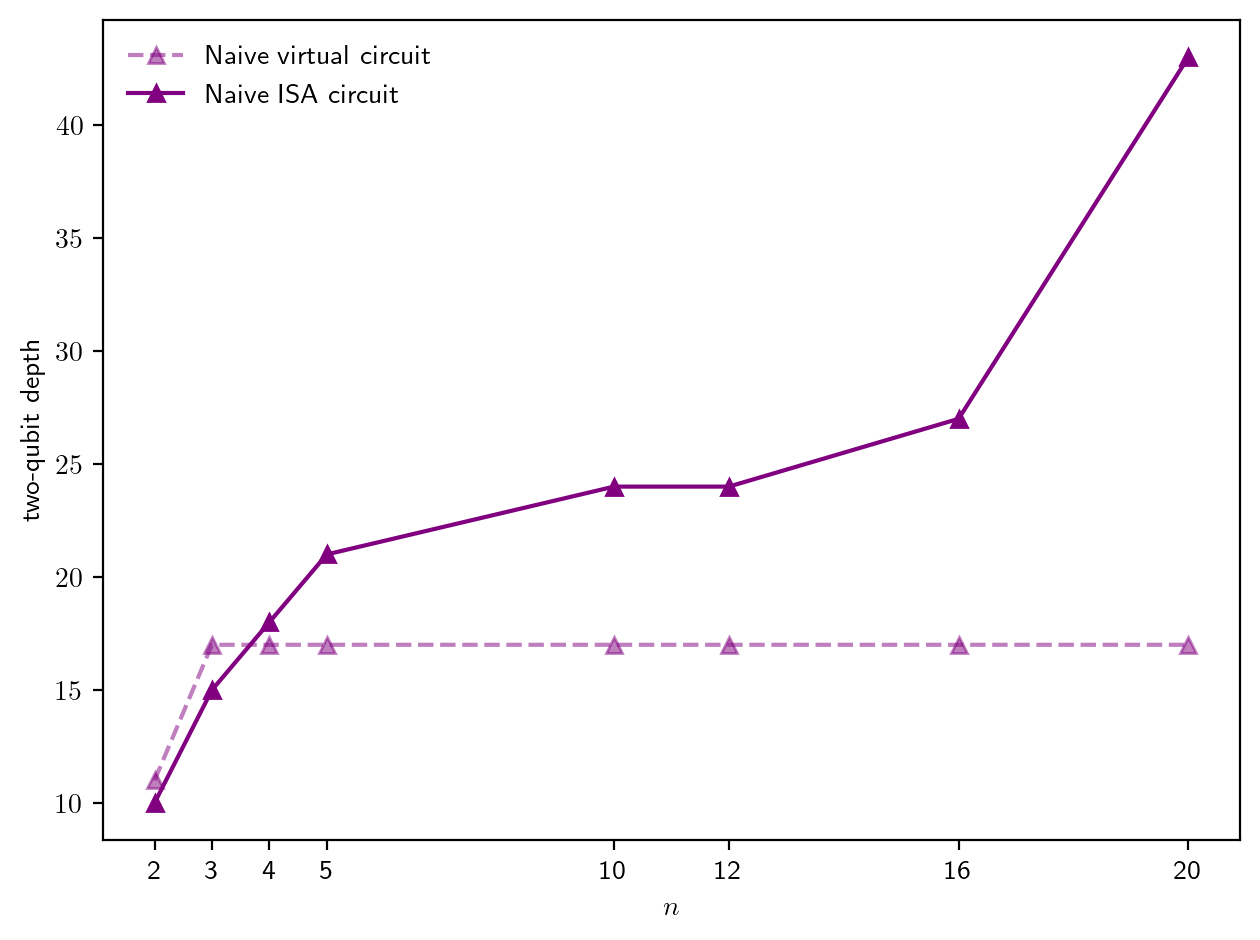
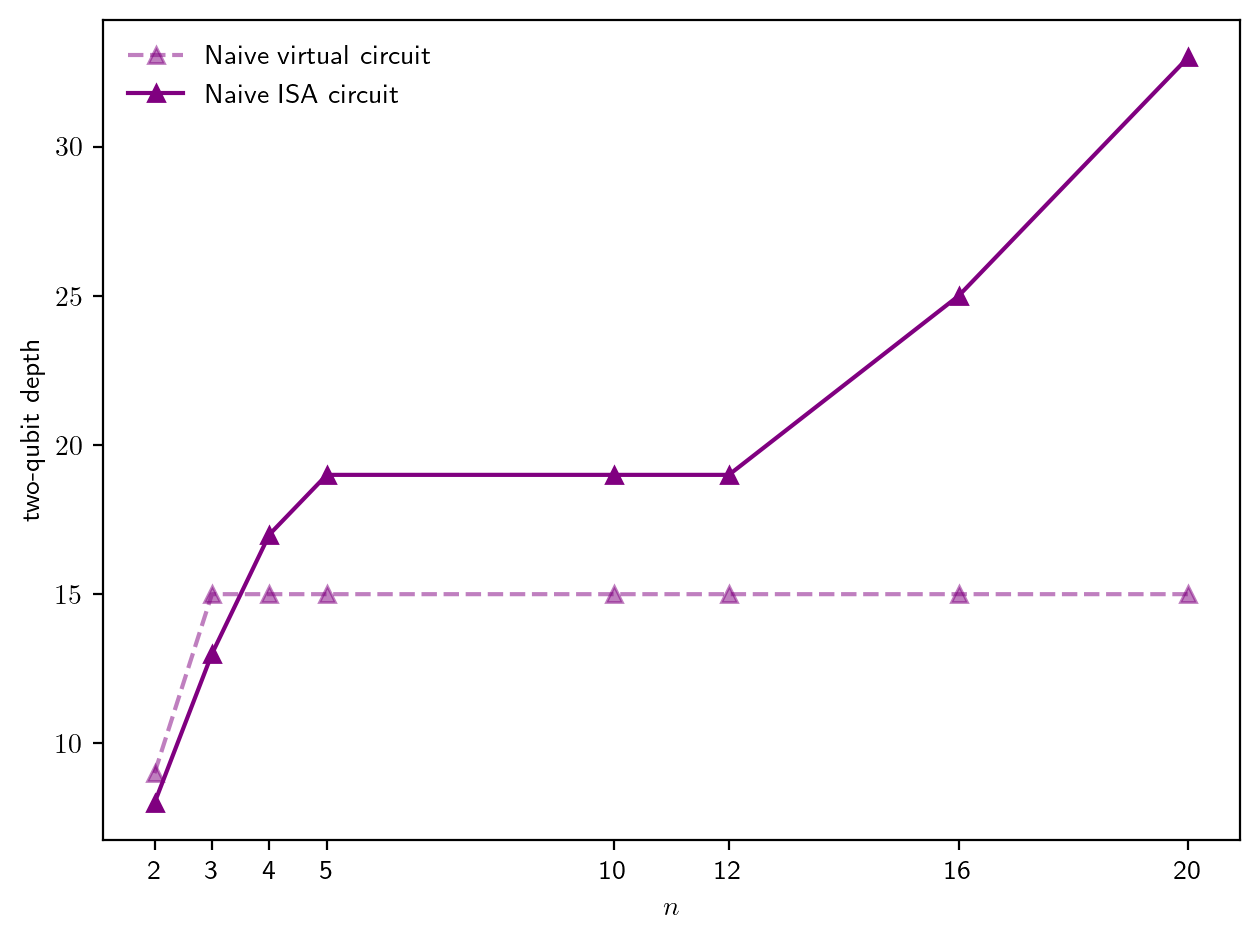
eliminated barriers to avoid over counting two-qubit depth

diff --git a/standard_adc/naive_adc_circuit.py b/standard_adc/naive_adc_circuit.py
@@ -53,7 +53,7 @@ def naive_circuit(
                 qc.ryy(alpha, q0, q1)
                 qc.rzz(2*alpha, q0, q1)
 
-        qc.barrier()
+        # qc.barrier()
 
         if dissipation:
             for j in range(n):
@@ -64,7 +64,7 @@ def naive_circuit(
 
             qc.reset(ancillas)
 
-            qc.barrier()
+            # qc.barrier()
 
     return qc
 
